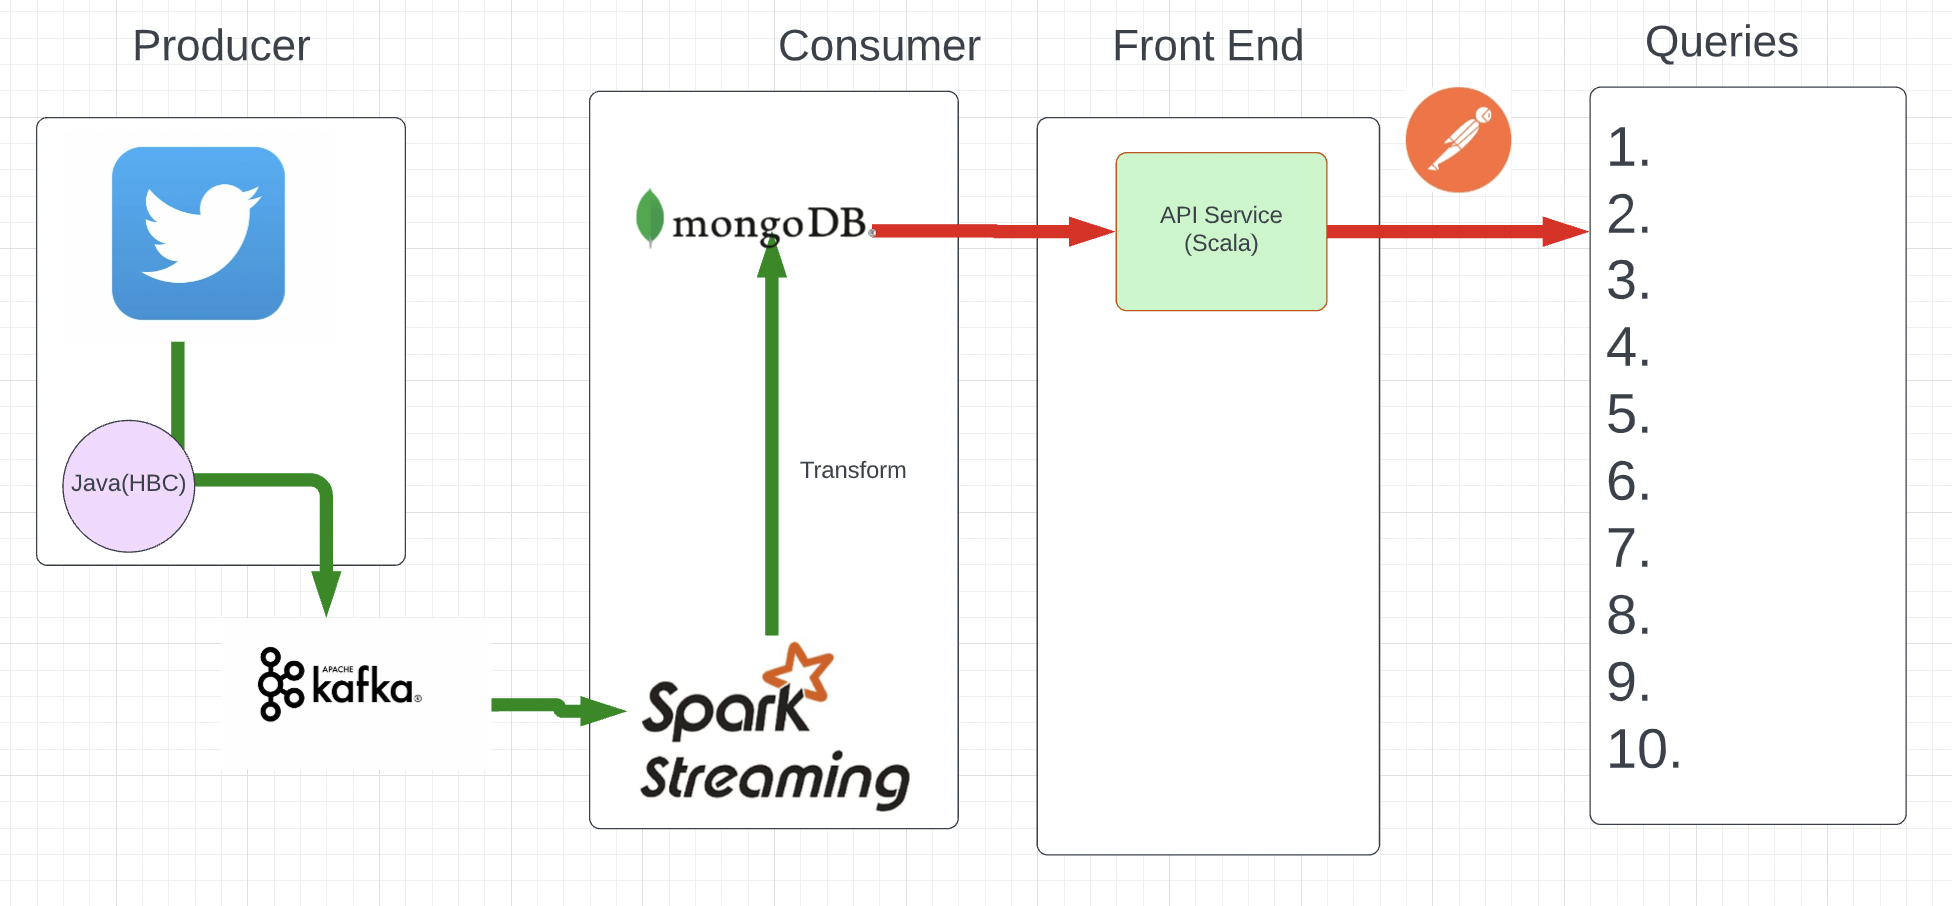
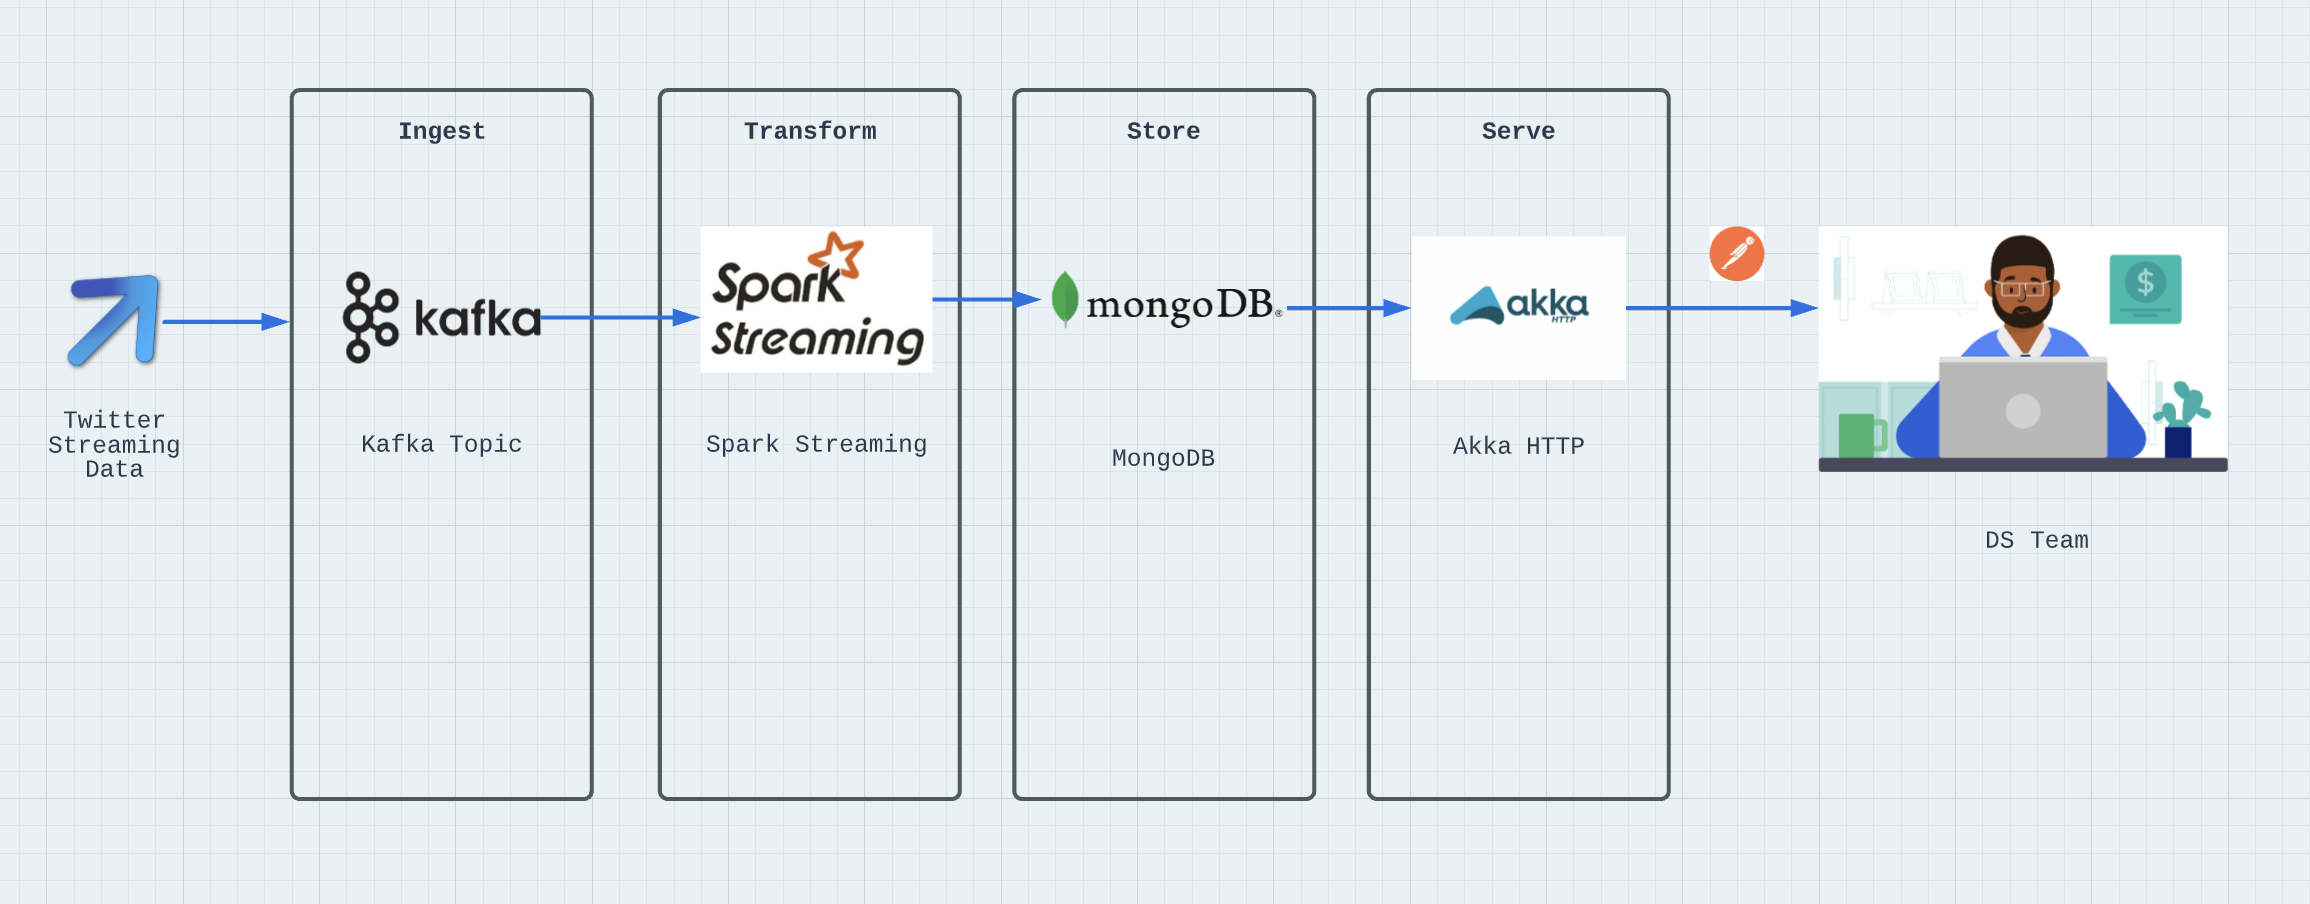
updated build files + structure changes

Changed region(s): [[0.0, 0.0, 1.0, 0.9912]]

diff --git a/README.md b/README.md
@@ -1,39 +1,76 @@
-# Steps to follow
+# Covid Tweet Analysis
+
+
+# Problem Statement
+
+[link](https://docs.google.com/document/d/1u7evaLRQ_CFOKFJSi0JniaaI_4hoxFYAyMqHrtSwFuY/edit)
+
+# Architecture
+
+![structure](./images/structure.png)
+
+# Steps
+
+## Step 1 - Environment Setup
+
 
 1. Create New Project in IntelliJ with following versions
-```abdi
+```python
 sbt version = 1.6.2
-SDK = 11 (Amazon Corretto)
+JDK = 11 (Amazon Corretto) (java 8 to remove warnings)
 scala version = 2.12.15
 Spark Version = 3.2.1
 Confluent Version = 7.0.1
 ```
 
 2. Add Following script to `build.sbt`
-```sbt
+```scala
 ThisBuild / version := "0.1.0-SNAPSHOT"
 
 ThisBuild / scalaVersion := "2.12.15"
 
-// Streaming 
+// Spark
 libraryDependencies += "org.apache.spark" %% "spark-core" % "3.2.1"
 libraryDependencies += "org.apache.spark" %% "spark-streaming" % "3.2.1"
 libraryDependencies += "org.apache.spark" %% "spark-sql" % "3.2.1"
-// For Twitter 
+
+// Twitter4j
 libraryDependencies += "org.twitter4j" % "twitter4j-core" % "4.0.7"
 libraryDependencies += "org.twitter4j" % "twitter4j-stream" % "4.0.7"
 libraryDependencies += "org.apache.bahir" %% "spark-streaming-twitter" % "2.4.0"
-// Mongo Sink
+
+// Mongo Spark
 libraryDependencies += "org.mongodb.spark" %% "mongo-spark-connector" % "3.0.1"
 
-// Kafka Source
+// Kafka
 libraryDependencies += "org.apache.spark" %% "spark-sql-kafka-0-10" % "3.2.1"
 
+// Json
+libraryDependencies += "com.typesafe.play" %% "play-json" % "2.9.2"
 
+// HBC Java Client
+libraryDependencies += "com.twitter" % "hbc-core" % "2.2.0"
+
+// Mongo - Scala
+libraryDependencies += "org.mongodb.scala" %% "mongo-scala-driver" % "4.5.1"
+
+// Akka
+libraryDependencies ++= Seq(
+  "com.typesafe.akka" %% "akka-actor"   % "2.6.19",
+  "com.typesafe.akka" %% "akka-slf4j"   % "2.6.19",
+  "com.typesafe.akka" %% "akka-remote"  % "2.6.19",
+  "com.typesafe.akka" %% "akka-agent"   % "2.5.32",
+  "com.typesafe.akka" %% "akka-testkit" % "2.6.19" % "test",
+  "com.typesafe.akka" %% "akka-actor-typed" % "2.6.19",
+  "com.typesafe.akka" %% "akka-actor-testkit-typed" % "2.6.19" % Test,
+  "com.typesafe.akka" %% "akka-stream" % "2.6.19",
+  "com.typesafe.akka" %% "akka-http" % "10.2.9"
+)
 lazy val root = (project in file("."))
   .settings(
     name := "covid-tweet-analysis"
   )
+
 ```
 
 3. Start kafka and zookeeper with the following command:
@@ -43,57 +80,57 @@ lazy val root = (project in file("."))
 - Because kafka works only on 1.8 (really?), we need to give `JAVA_HOME` path to 1.8 version + PATH of `CONFLUENT_HOME` to confluent we just installed at location `/Users/shantanu/confluent-7.0.1`
 ```bash
 # List out the java versions and their path
-/usr/libexec/java_home -V
+~ /usr/libexec/java_home -V
 # > Output
 Matching Java Virtual Machines (3):
     17.0.1 (arm64) "Oracle Corporation" - "Java SE 17.0.1" /Library/Java/JavaVirtualMachines/jdk-17.0.1.jdk/Contents/Home
     16.0.2 (x86_64) "Amazon.com Inc." - "Amazon Corretto 16" /Users/shantanu/Library/Java/JavaVirtualMachines/corretto-16.0.2/Contents/Home
     1.8.0_322 (x86_64) "Amazon" - "Amazon Corretto 8" /Users/shantanu/Library/Java/JavaVirtualMachines/corretto-1.8.0_322/Contents/Home
 
-vi .zshrc
+~ vi .zshrc
 # NOW ADD BELOW 3 export into .zshrc
 # Export Amazon corretto 8 which is 1.8 version of java 
-export JAVA_HOME=/Users/shantanu/Library/Java/JavaVirtualMachines/corretto-1.8.0_322/Contents/Home
+~ export JAVA_HOME=/Users/shantanu/Library/Java/JavaVirtualMachines/corretto-1.8.0_322/Contents/Home
 # For confluent to work (find stable solution)
 # Set HOME For confluent
-export CONFLUENT_HOME=/Users/shantanu/confluent-7.0.1
+~ export CONFLUENT_HOME=/Users/shantanu/confluent-7.0.1
 # Add to path (temporary ig)
-export PATH=$PATH:$CONFLUENT_HOME/bin
+~ export PATH=$PATH:$CONFLUENT_HOME/bin
 ```
 **Setup:**
 ```bash
 # Run confluent services
-confluent local services start
+~ confluent local services start
 ```
 Now go to localhost:9021 and create a topic `test-topic` with default settings
 ```bash
-kafka-console-producer --broker-list localhost:9092 --topic test-topic
+~ kafka-console-producer --broker-list localhost:9092 --topic test-topic
 >{"name": "Shantanu", "age": 22, "gender": "Male"}
 >{"name": "Bhavesh", "age":21, "gender": "Male"}
 ```
 Open another terminal for consumer
 ```bash
-kafka-console-consumer --bootstrap-server localhost:9092 --topic test-topic --from-beginning
+~ kafka-console-consumer --bootstrap-server localhost:9092 --topic test-topic --from-beginning
 >{"name": "Shantanu", "age": 22, "gender": "Male"}
 >{"name": "Bhavesh", "age":21, "gender": "Male"}
 ```
 
 ```bash
 # Stop service
-confluent local services stop
+~ confluent local services stop
 # Delete the metadata
-confluent local destroy
+~ confluent local destroy
 ```
 ### BREW
 ```bash
 # Prerequisite for kafka
-brew install java
+~ brew install java
 # Install kafka (upto 5 min)
-brew install kafka
+~ brew install kafka
 # List services
-brew services list
+~ brew services list
 # May require to uncomment last 2 line as showed below
-vi /opt/homebrew/etc/kafka/server.properties
+~ vi /opt/homebrew/etc/kafka/server.properties
 ```
 
 - Change the following in the file `/opt/homebrew/etc/kafka/server.properties`
@@ -108,23 +145,232 @@ vi /opt/homebrew/etc/kafka/server.properties
 listeners=PLAINTEXT://:9092
 advertised.listeners=PLAINTEXT://localhost:9092
 ```
-```bash
+```zsh
 # Start the services
-brew services start zookeeper
-brew services start kafka
+~ brew services start zookeeper
+~ brew services start kafka
 # Create kafka topic
 kafka-topics --create --topic test-topic --bootstrap-server localhost:9092 --replication-factor 1 --partitions 4
 # Create producer console
-kafka-console-producer --broker-list localhost:9092 --topic test-topic
+~ kafka-console-producer --broker-list localhost:9092 --topic test-topic
 > send first message
 > send second message
 > send third message
 # Create consumer console in another terminal
-kafka-console-consumer --bootstrap-server localhost:9092 --topic test-topic --from-beginning
+~ kafka-console-consumer --bootstrap-server localhost:9092 --topic test-topic --from-beginning
 send first message
 send second message
 send third message
 ```
 
-4. Run file `TwitterToKafka.scala`. It will send data to Kafka from twitter using API hbc.
-5. Run file `KafkaToMongo.scala`. It will extract useful data from Kafka and send useful data to MongoDB.
+## STEP 2: Data Ingest from Twitter to Kafka (Using HBC client)
+
+`TwitterToKafka.scala`
+```scala
+import com.google.common.collect.Lists
+import com.twitter.hbc.ClientBuilder
+import com.twitter.hbc.core.Constants
+import com.twitter.hbc.core.endpoint.StatusesFilterEndpoint
+import com.twitter.hbc.core.processor.StringDelimitedProcessor
+import com.twitter.hbc.httpclient.auth.OAuth1
+import org.apache.kafka.clients.producer.{KafkaProducer, ProducerRecord}
+import org.apache.kafka.common.serialization.StringSerializer
+import org.apache.spark.sql.SparkSession
+
+import java.util.Properties
+import java.util.concurrent.{LinkedBlockingQueue, TimeUnit}
+
+
+object TwitterToKafka {
+
+  @throws[InterruptedException]
+  def run(consumerKey: String, consumerSecret: String, token: String, secret: String): Unit = {
+    // Create an appropriately sized blocking queue
+    val queue = new LinkedBlockingQueue[String](10000)
+    // Endpoint use to track terms
+    val endpoint = new StatusesFilterEndpoint
+    // add some track terms
+    // todo: #1 - Take the terms from the file keywords.txt
+    endpoint.trackTerms(Lists.newArrayList("covid", "virus"))
+    // Define auth structure
+    val auth = new OAuth1(consumerKey, consumerSecret, token, secret)
+    // Create a new BasicClient. By default gzip is enabled.
+    val client = new ClientBuilder()
+      .name("sampleExampleClient")
+      .hosts(Constants.STREAM_HOST)
+      .endpoint(endpoint)
+      .authentication(auth)
+      .processor(new StringDelimitedProcessor(queue))
+      .build
+    // Connect the client with the above configuration
+    client.connect()
+    // Set configuration for kafka
+    val kafkaProducerProps: Properties = {
+      val props = new Properties()
+      props.put("bootstrap.servers", "localhost:9092")
+      props.put("key.serializer", classOf[StringSerializer].getName)
+      props.put("value.serializer", classOf[StringSerializer].getName)
+      props
+    }
+
+    // Create a producer for kafka
+    val producer = new KafkaProducer[String, String](kafkaProducerProps)
+
+    // Take 10 msgs from stream and push it to kafka topic named test-topic
+    for (msgRead <- 0 until 10) {
+        val msg =  queue.poll(5, TimeUnit.SECONDS)
+        print(msg)
+        if (msg != null) {
+          producer.send(new ProducerRecord[String, String]("test-topic", null, msg))
+        }
+    }
+    // Stop the client
+    client.stop()
+    // Print some stats
+    println("The client read %d messages!\n", client.getStatsTracker.getNumMessages - 1)
+  }
+
+  def main(args: Array[String]): Unit = {
+    val access_token: String="<your_access_token>"
+    val access_token_secret: String="<your_access_token_secret>"
+    val consumer_key: String="<your_consumer_key>"
+    val consumer_secret: String="<your_consumer_secret>"
+    try TwitterToKafka.run(consumer_key, consumer_secret, access_token, access_token_secret)
+    catch {
+      case e: InterruptedException =>
+        System.out.println(e)
+    }
+  }
+}
+
+```
+
+| **topic name** 	|                  **value**                 	|
+|:--------------:	|:------------------------------------------:	|
+| "key": "test-topic"     	| "value": { "$binary" : "eyJjcmVhdGVkX2F" } 	|
+| "key": "test-topic"    	| "value": { "$binary" : "JadJjdafadDSFSF" } 	|
+
+
+## STEP 3: Transform Data using Spark Streaming and Load to MongoDB
+
+```scala
+import org.apache.spark.SparkContext._
+import org.apache.spark._
+import org.apache.spark.sql.functions._
+import org.apache.spark.sql.types._
+import org.apache.spark.sql.{Column, DataFrame, SparkSession}
+import org.apache.spark.streaming.StreamingContext._
+import org.apache.spark.streaming._
+import org.apache.spark.streaming.twitter._
+
+import scala.util.parsing.json._
+
+object KafkaToMongo {
+
+  // Function which returns string by replacing every "." to "_"
+  def replaceDotsForColName(name: String): String = {
+    if(name.contains('.')){
+      return name.replace(".", "_")
+    }
+    else{
+      return name
+    }
+  }
+
+  def main(args: Array[String]): Unit = {
+    // Configure the session with MongoDB
+    val spark = SparkSession.builder
+                  .master("local")
+                  .appName("demo")
+                  .config("spark.mongodb.output.uri", "mongodb://localhost:27017")
+                  .getOrCreate()
+
+    // Add this for $"value" i.e. explicitly mentioning that value is a attribute not string
+    import spark.implicits._
+
+    // READ the stream from Kafka Topic (Source)
+    // df will be in binary format b"------"
+    val df = spark.readStream
+                  .format("kafka")
+                  .option("kafka.bootstrap.servers", "localhost:9092")
+                  .option("subscribe", "test-topic")
+                  .option("startingOffsets", "earliest")
+                  .load()
+    // df
+    //     KEY                      VALUE
+    //    "value"         |  { "$binary" : "iaWRfc3RyIjoiMjEwMzIwNTk1IiwiaW5kaCg==", "$type" : "00" },
+    //    "topic"         | "test-topic",
+    //    "partition"     |  0,
+    //    "offset"        |  NumberLong(0),
+    //    "timestamp"     | ISODate("2022-04-06T15:31:00.696Z"),
+    //    "timestampType" | 0
+
+    val raw_json: DataFrame = df.selectExpr("CAST(value AS STRING)")
+    // raw_json
+    // KEY                 VALUE
+    //             v this \(backslash) is to let json know to take " (double quote) literally and not as elimination of string
+    // "value"  | "{\"created_at\":\"Wed Apr 06 15:30:55 +0000 2022\",\"id\":1511728162857619458,\"id_str\":\"1511728162857619458\",
+
+    // Mention column to be extracted from "value" column
+    val columns: Seq[String] =  Seq(
+      "created_at",
+      "id",
+      "text",
+      "truncated",
+      "user.name",
+      "user.screen_name",
+      "user.location",
+      "geo",
+      "coordinates",
+      "place",
+      "entities.hashtags",
+      "lang"
+    )
+
+    // get_json_object(col, path): Extracts json object from a json string based on json path specified, and returns json string of the extracted json object.
+    // path = "$$.$c" => First $ specifies second $ as variable not str, now one $ implies root document in MongoDB
+    //                   Dot (.) implies go inside root document and find the value of key written right after it ($c)
+    //                   Third dollar specifies c as variable not str which is `columns` values one by one
+    // .alias(fun(c)) => Because MongoDB doesn't support (.) or ($) in its column, so if any value in columns contain
+    //                   data like `user.id` (which means go inside `user` and extract value of key `id`), we have to
+    //                    replace every dots with _ (underscore)
+    val cleaned_columns: Seq[Column] = columns
+          .map(c =>
+            get_json_object($"value", s"$$.$c").alias(replaceDotsForColName(c))
+          )
+
+    // Select all columns which is mentioned in the plan of cleaned_columns [PLAN]
+    // cleaned_columns is a PLAN, not an actual collection
+    // We can't actually collect data in streaming data, we can only use `data.write` to collect it, which will be used as sink
+    // $"*" +:  => Add this before cleaned_columns to get value columns as well
+    val table: DataFrame = raw_json.select(cleaned_columns: _*)
+    // table
+    // KEY                VALUE
+    // "text"       | "RT @RepThomasMassie: You’re at least 200 times (20,000%) more likely to die of something other than COVID, than to die with COVID.\n\nCOVID i…",
+    // "created_at" | "Wed Apr 06 15:55:03 +0000 2022",
+    // "user_id"    | "980238526305460224"
+
+    // For each batch(batchDF), provided what should be done inside it as a function
+    // Storing in mongo, with awaitTermination
+    table.writeStream.foreachBatch { (batchDF: DataFrame, batchId: Long) =>
+      batchDF.write
+      .format("mongo")
+      .mode("append")
+      .option("database", "twitter_db")
+      .option("collection", "covid_tweets")
+      .save()
+    }.start().awaitTermination()
+  }
+}
+
+```
+- Example Document in MongoDB
+
+|   **KEY**  	|                 **VALUE**                	|
+|----------	|----------------------------------------:	|
+| _text_     	| _RT @RepThomasMassie: You’re at least 2_ 	|
+| created_at 	| Wed Apr 06 15:55:03 +0000 2022           	|
+| user_id    	| 980238526305460224                       	|
+
+## STEP 4: Serve MongoDB data to Akka HTTP API on Localhost
+
